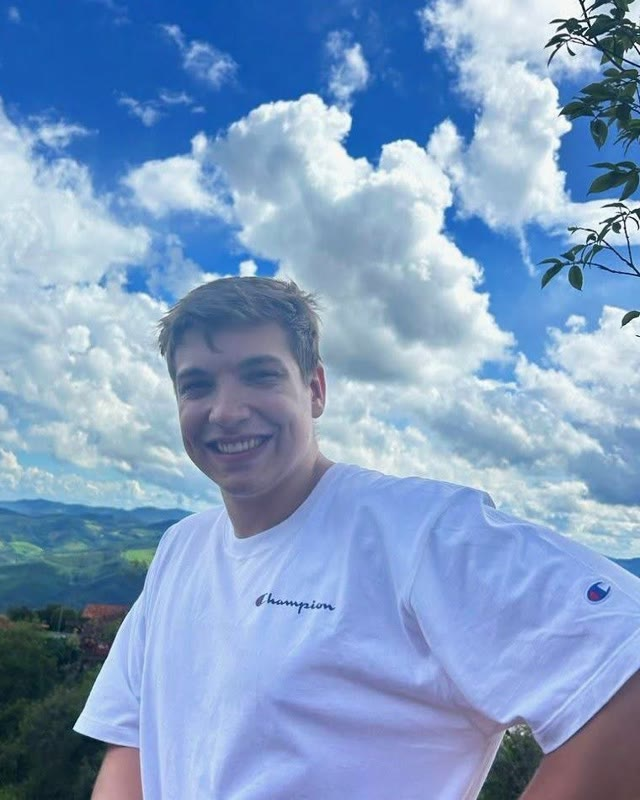
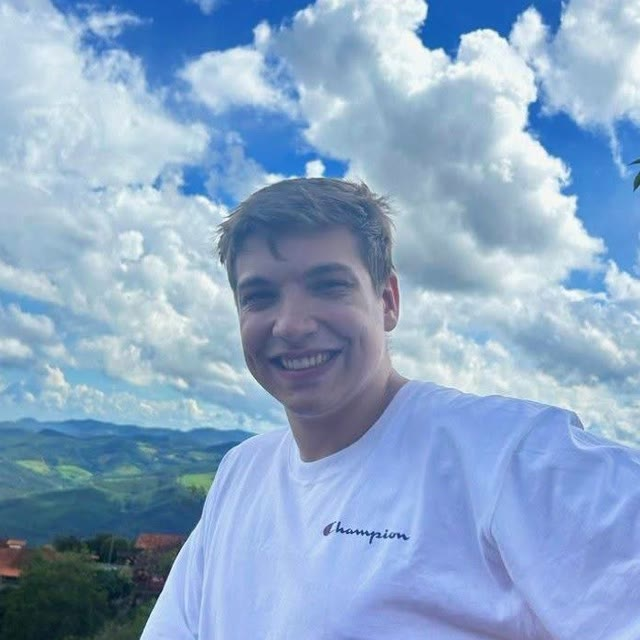
Foto em círculo com moldura e faixa de informações ajustada no tablet

diff --git a/index.html b/index.html
@@ -65,10 +65,11 @@
   }
   .statement span{display:block;}
   .portrait{
-    grid-column:1 / 5;grid-row:1;align-self:center;margin:0;max-height:62svh;
-    aspect-ratio:4/5;border-radius:8px;overflow:hidden;
+    grid-column:1 / 5;grid-row:1;align-self:center;justify-self:start;margin:0;
+    width:min(100%, 58svh, 400px);aspect-ratio:1;border-radius:50%;
+    background:var(--ink);padding:clamp(8px, 0.9vw, 12px);
   }
-  .portrait img{width:100%;height:100%;object-fit:cover;}
+  .portrait img{width:100%;height:100%;object-fit:cover;object-position:48% 45%;border-radius:50%;}
   .id{
     grid-column:1 / -1;grid-row:2;align-self:end;
     display:grid;grid-template-columns:auto repeat(4, auto) 1fr;gap:12px 40px;align-items:end;
@@ -200,6 +201,11 @@
   @keyframes rise{to{opacity:1;transform:none;}}
   @keyframes fade{to{opacity:1;}}
 
+  @media (max-width: 1180px){
+    .id{grid-template-columns:1fr 1fr;}
+    .id h1{grid-column:1 / -1;margin-bottom:12px;}
+    .id .cta{grid-column:1 / -1;justify-self:start;margin-top:12px;}
+  }
   /* =============== tablet =============== */
   @media (max-width: 1000px){
     .statement{grid-column:1 / -1;grid-row:2;text-align:left;padding-top:32px;}
@@ -221,7 +227,7 @@
   @media (max-width: 640px){
     .index{padding:20px;}
     .statement{font-size:8.6vw;padding-top:24px;}
-    .portrait{grid-column:1 / 8;max-height:none;}
+    .portrait{grid-column:1 / 8;width:min(100%, 220px);}
     .id h1{order:0;}
     .id .cta{order:1;margin:4px 0 8px;}
     .id p{order:2;}
@@ -250,7 +256,7 @@
 <!-- =============== primeira tela: índice dos projetos =============== -->
 <header class="index">
   <figure class="portrait">
-    <img src="assets/rafael.jpg" width="640" height="800" alt="Rafael Kluge sorrindo, de camiseta branca, com montanhas e céu azul ao fundo">
+    <img src="assets/rafael.jpg" width="640" height="640" alt="Rafael Kluge sorrindo, de camiseta branca, com montanhas e céu azul ao fundo">
   </figure>
 
   <p class="statement" aria-label="Da pesquisa em IA ao site do seu negócio">
